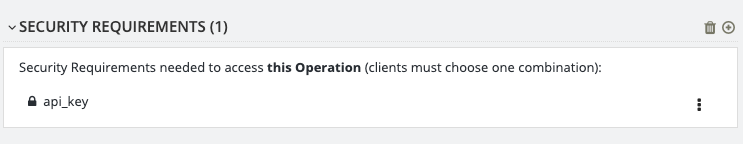
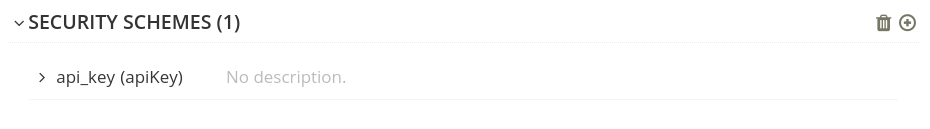
Fix security schema figure and limit count

diff --git a/doc/openapi-apicurio.md b/doc/openapi-apicurio.md
@@ -48,7 +48,7 @@ Although securityScheme is not an OpenAPI extension, it is used by `kuadrantctl`
             in: header
 ```
 
-When added, the UI will display this in the security requirements section:
+When added, the UI will display this in the security schemes section:
 
 ![Apicurio security requirements](./images/apicurio-security-scheme-apikey.png)
 
@@ -69,7 +69,7 @@ paths:
             rate_limit:
                 rates:
                     -
-                        limit: 2
+                        limit: 10
                         duration: 10
                         unit: second
 ```
